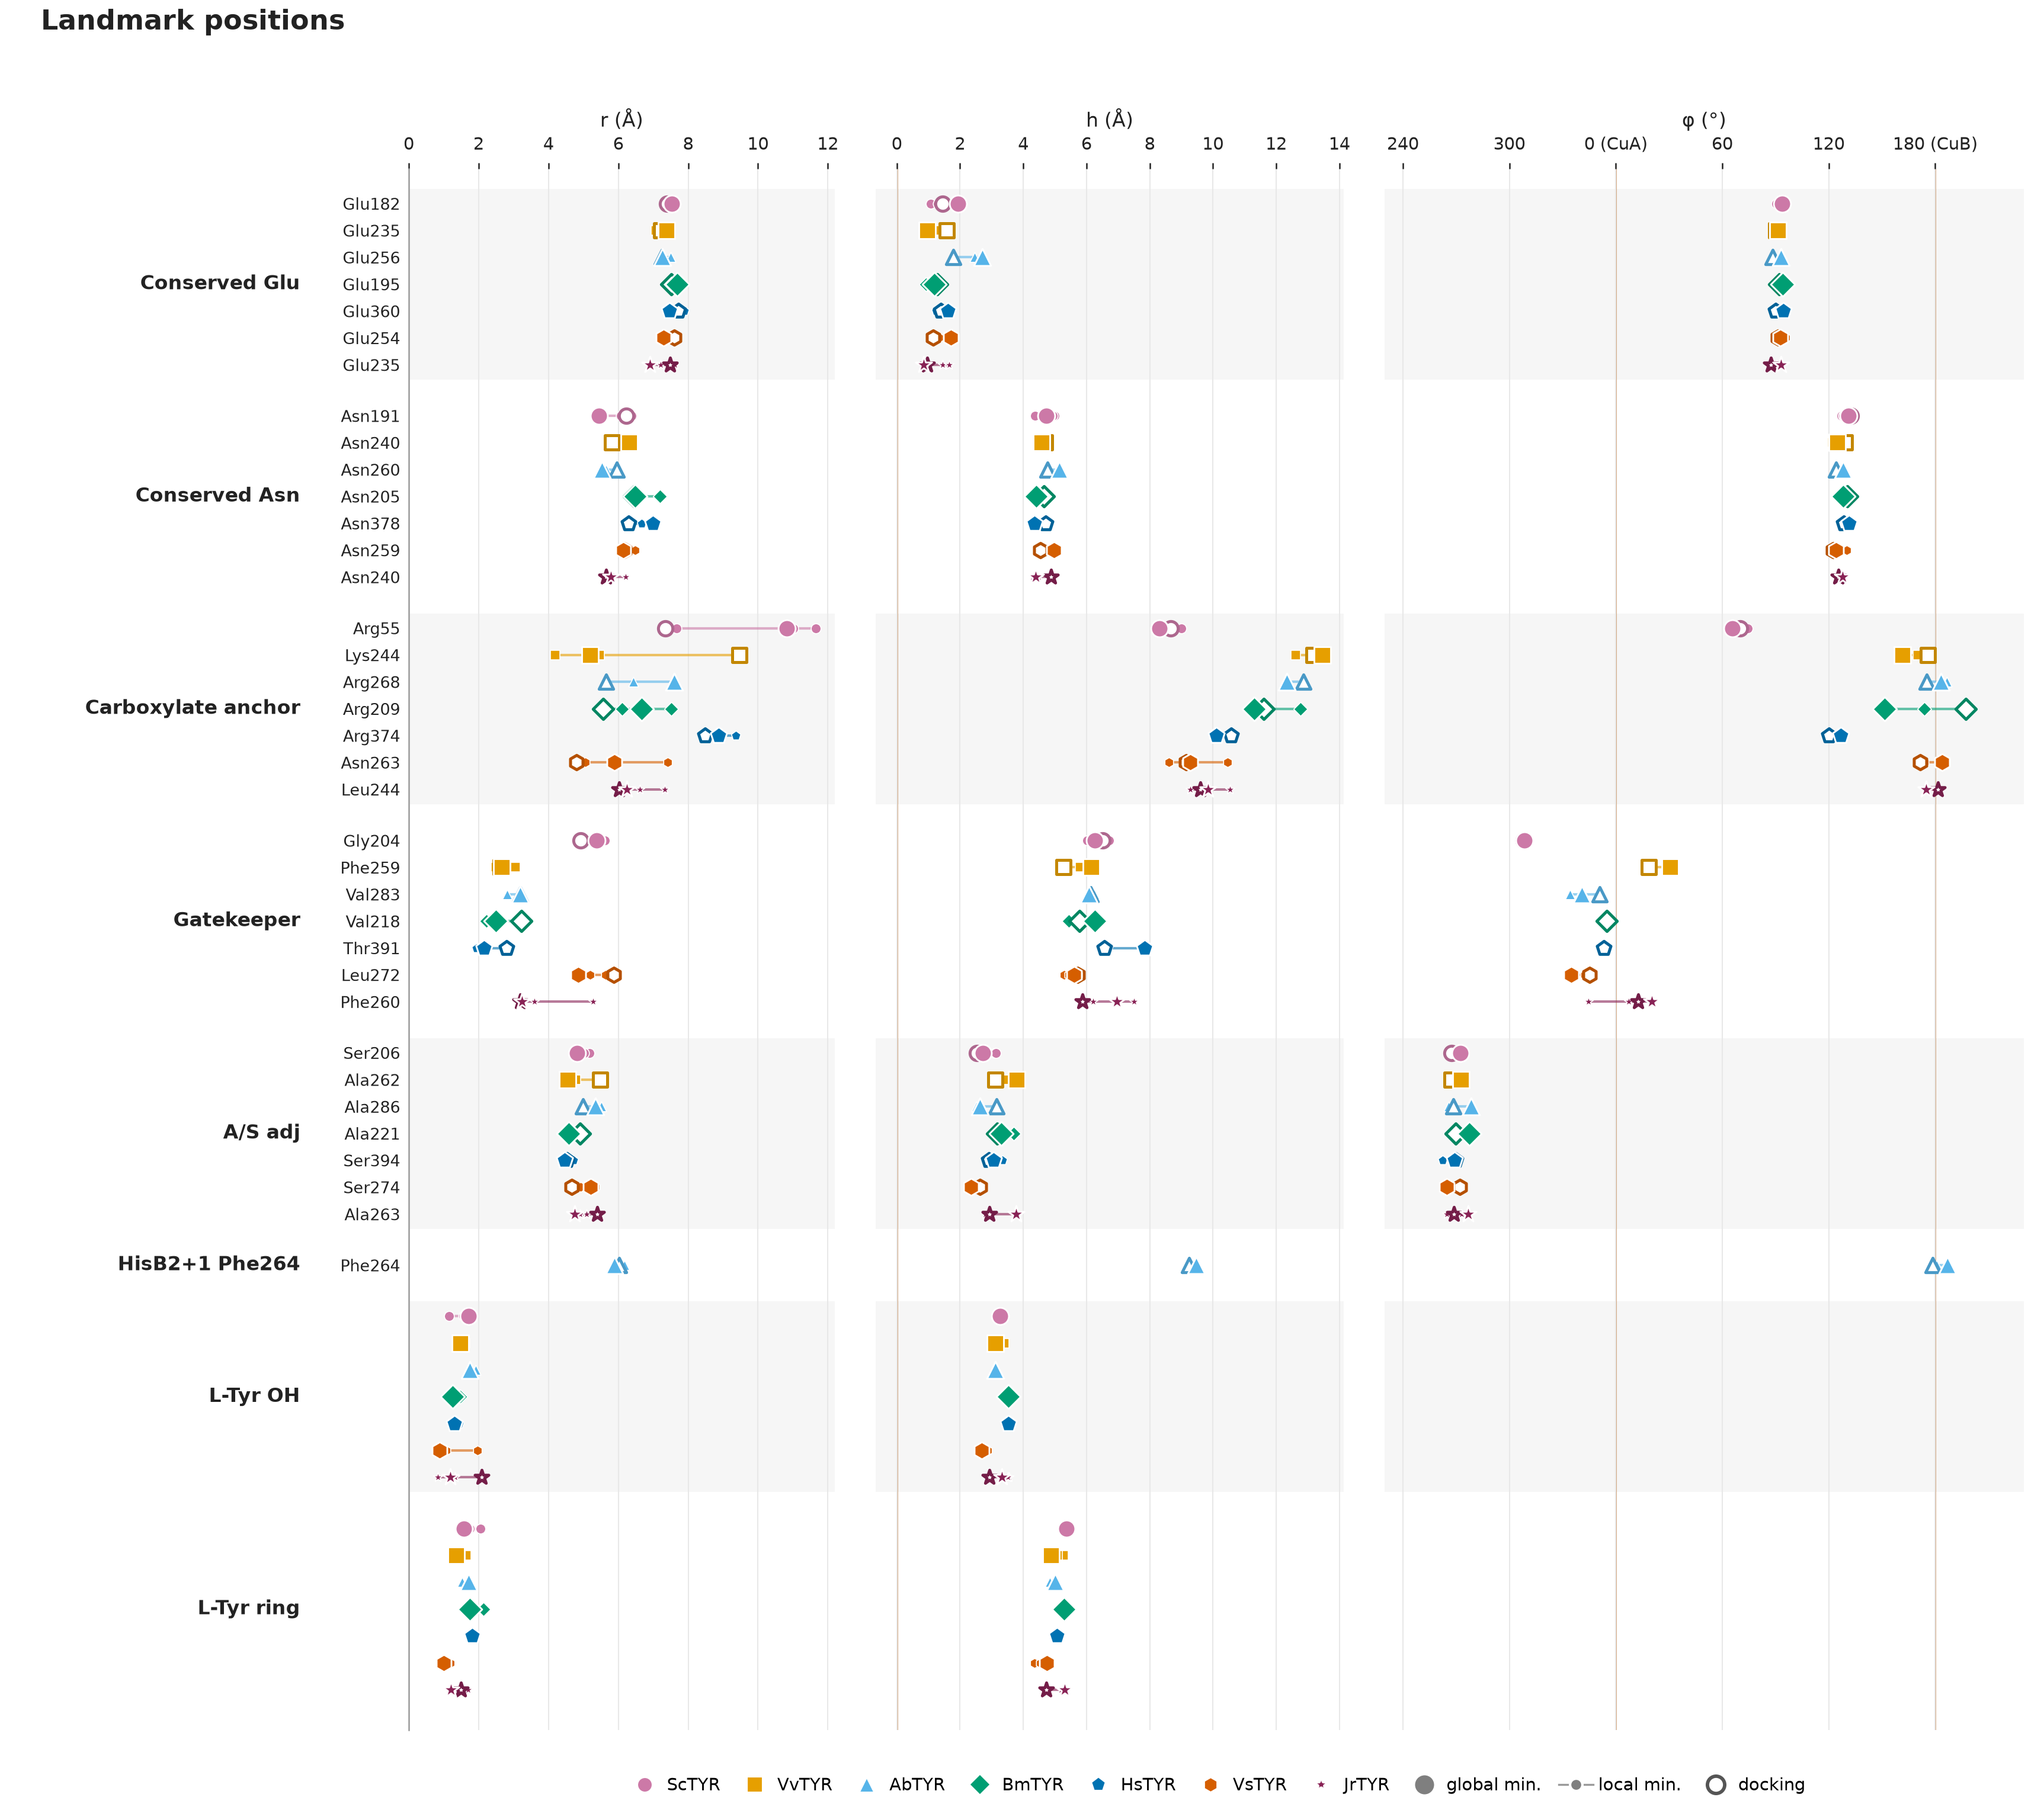
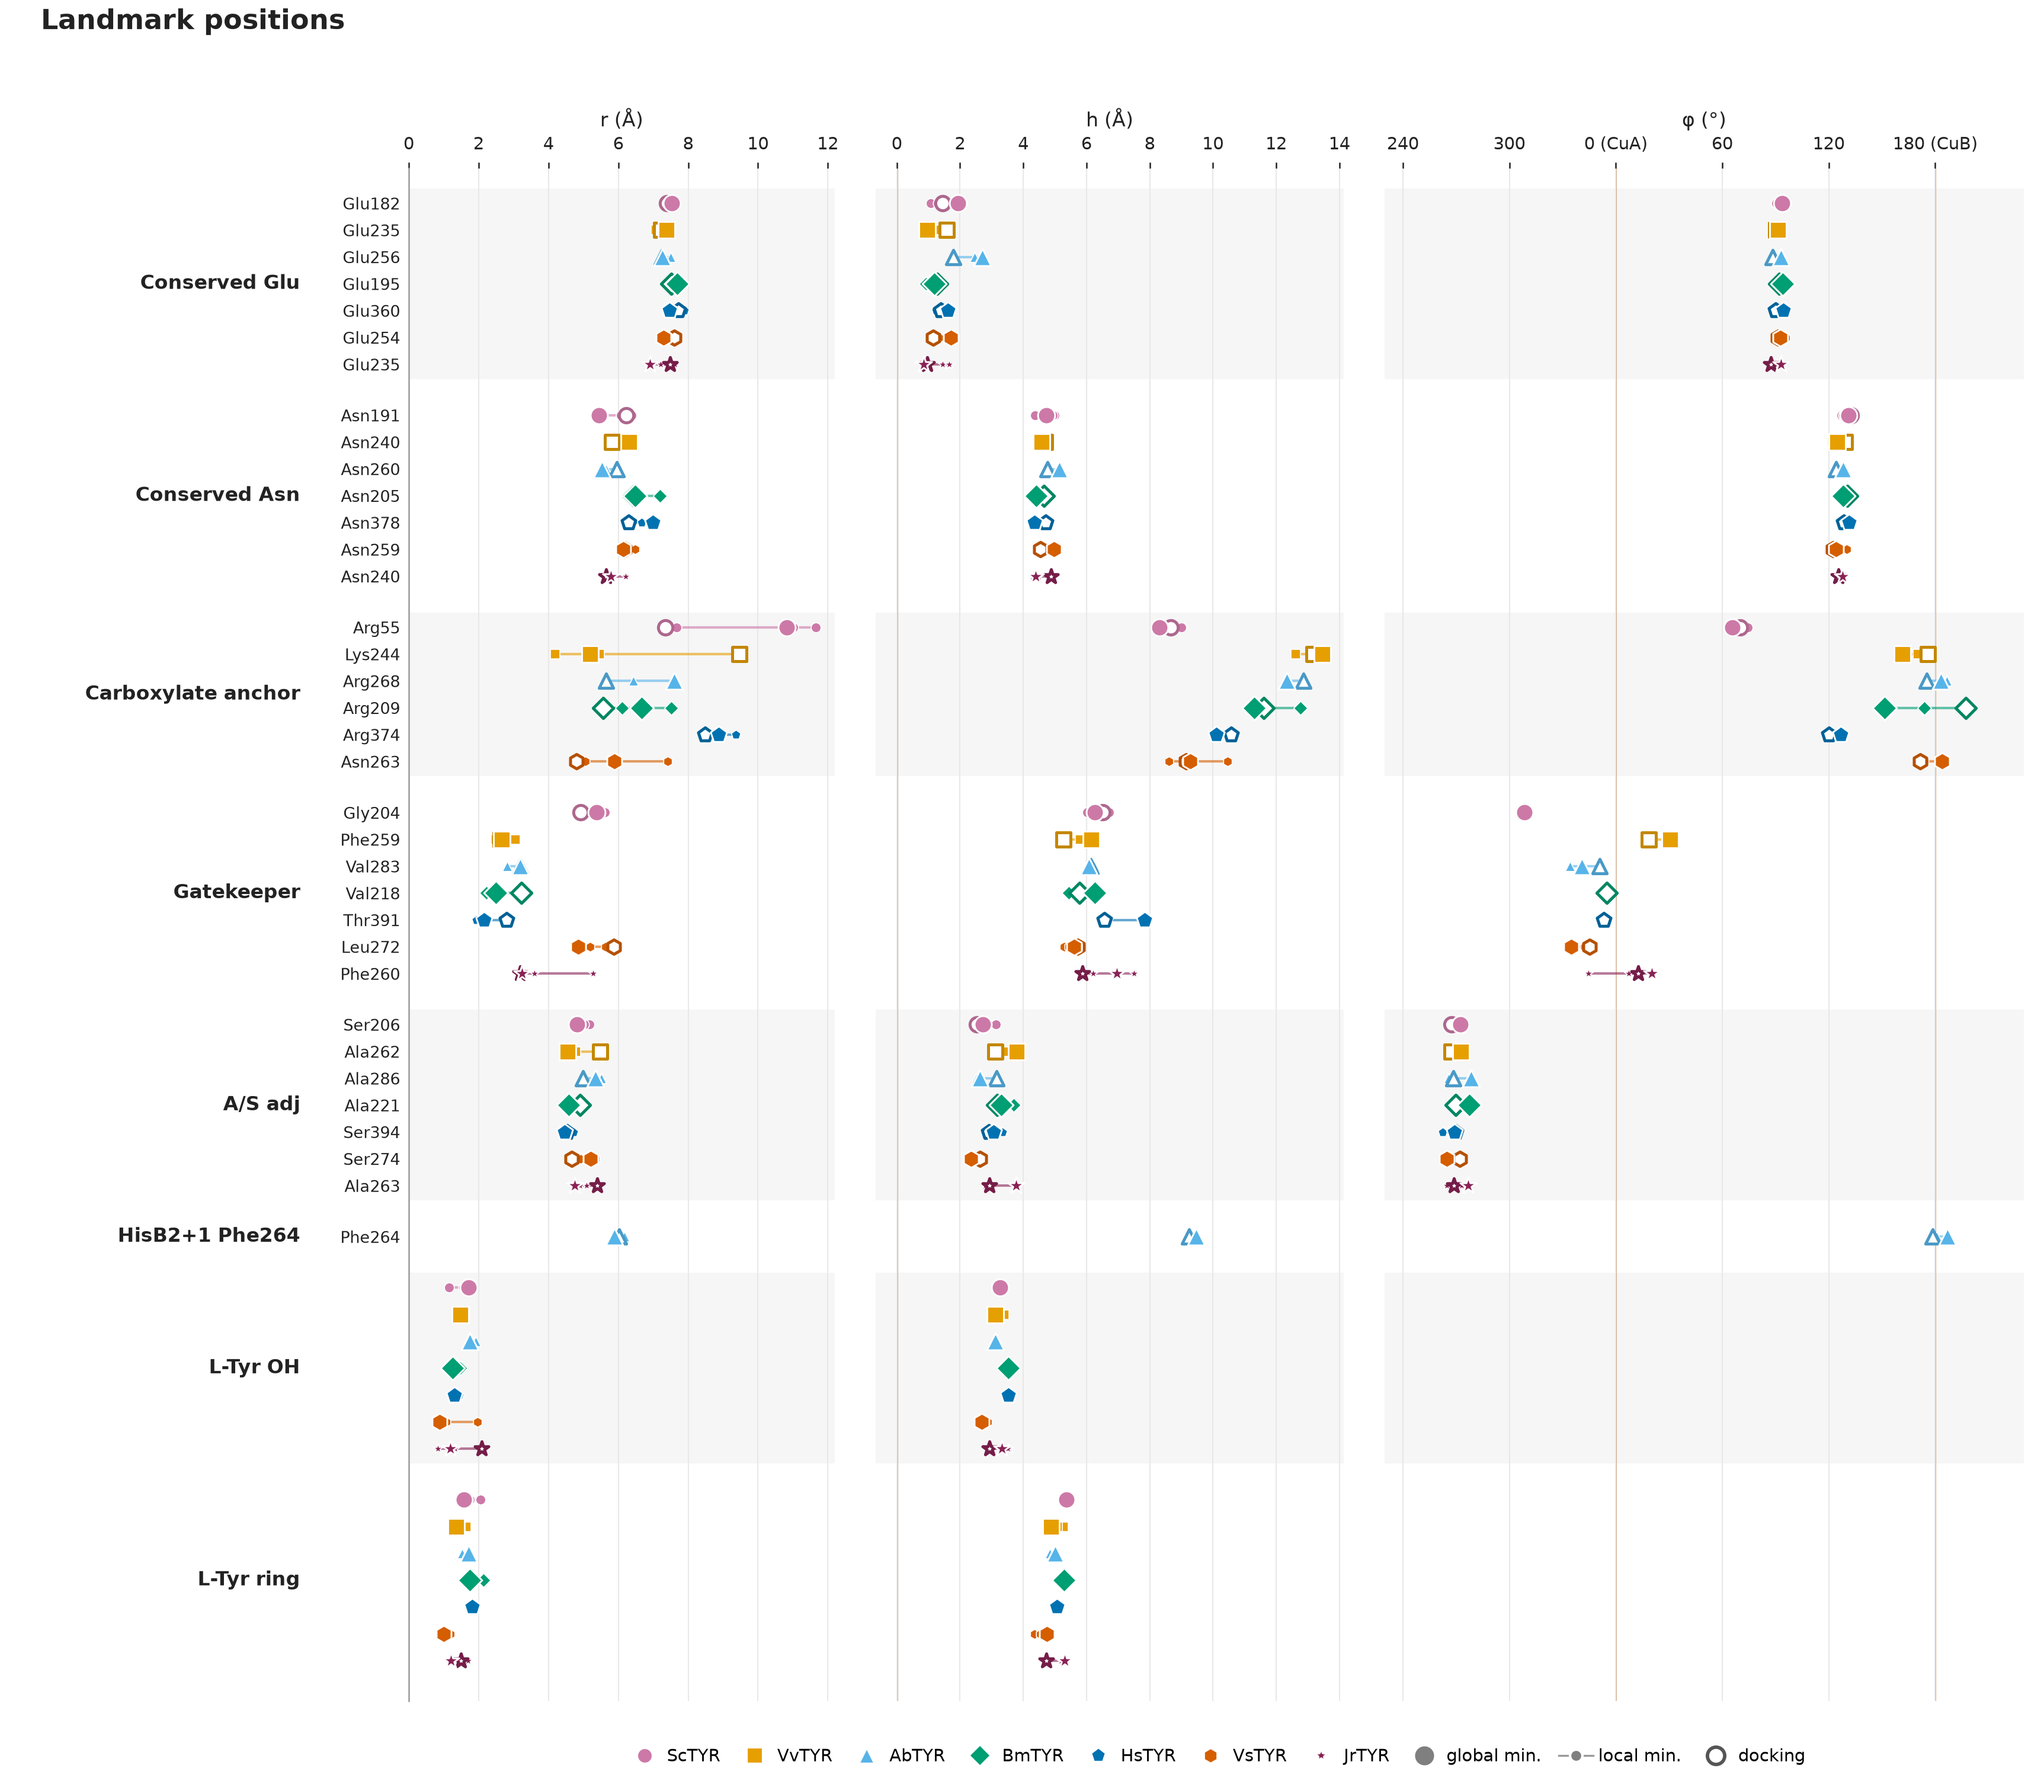
Add files via upload

diff --git a/examples/output_static/SUMMARY.md b/examples/output_static/SUMMARY.md
@@ -18,6 +18,7 @@
 - HsTYR (docking): HisB3: resid 404 appears 2 times [('X', 'HIS'), ('X', 'PER')]; using HIS404
 - HsTYR (docking): no residue named TY1: no L-Tyr descriptors
 - VsTYR (docking): no residue named TY1: no L-Tyr descriptors
+- JrTYR (all states): Carboxylate_anchor: role 'anchor' not defined for JrTYR; skipped
 
 ## Numbering and residues used
 
@@ -44,10 +45,10 @@
 - **VsTYR / local1** (offset +0, HD1-HD6): HisA1=HD180, HisA2=HD286, HisA3=HD395, HisB1=HD4258, HisB2=HD5262, HisB3=HD6284, Glu=GLU254, Asn=ASN259, anchor=ASN263, gatekeeper=LEU272, SerAla=SER274, ligand=TY1405
 - **VsTYR / local2** (offset +0, HD1-HD6): HisA1=HD180, HisA2=HD286, HisA3=HD395, HisB1=HD4258, HisB2=HD5262, HisB3=HD6284, Glu=GLU254, Asn=ASN259, anchor=ASN263, gatekeeper=LEU272, SerAla=SER274, ligand=TY1405
 - **VsTYR / docking** (offset +0, none (resid_offset 0)): HisA1=HIS80, HisA2=HIS86, HisA3=HIS95, HisB1=HIS258, HisB2=HIS262, HisB3=HIS284, Glu=GLU254, Asn=ASN259, anchor=ASN263, gatekeeper=LEU272, SerAla=SER274
-- **JrTYR / global** (offset +0, HD1-HD6): HisA1=HD187, HisA2=HD2108, HisA3=HD3117, HisB1=HD4239, HisB2=HD5243, HisB3=HD6273, Glu=GLU235, Asn=ASN240, anchor=LEU244, gatekeeper=PHE260, SerAla=ALA263, ligand=TY1405
-- **JrTYR / local1** (offset +0, HD1-HD6): HisA1=HD187, HisA2=HD2108, HisA3=HD3117, HisB1=HD4239, HisB2=HD5243, HisB3=HD6273, Glu=GLU235, Asn=ASN240, anchor=LEU244, gatekeeper=PHE260, SerAla=ALA263, ligand=TY1405
-- **JrTYR / local2** (offset +0, HD1-HD6): HisA1=HD187, HisA2=HD2108, HisA3=HD3117, HisB1=HD4239, HisB2=HD5243, HisB3=HD6273, Glu=GLU235, Asn=ASN240, anchor=LEU244, gatekeeper=PHE260, SerAla=ALA263, ligand=TY1405
-- **JrTYR / docking** (offset +0, none (resid_offset 0)): HisA1=HIS87, HisA2=HIS108, HisA3=HIS117, HisB1=HIS239, HisB2=HIS243, HisB3=HIS273, Glu=GLU235, Asn=ASN240, anchor=LEU244, gatekeeper=PHE260, SerAla=ALA263, ligand=TY10
+- **JrTYR / global** (offset +0, HD1-HD6): HisA1=HD187, HisA2=HD2108, HisA3=HD3117, HisB1=HD4239, HisB2=HD5243, HisB3=HD6273, Glu=GLU235, Asn=ASN240, gatekeeper=PHE260, SerAla=ALA263, ligand=TY1405
+- **JrTYR / local1** (offset +0, HD1-HD6): HisA1=HD187, HisA2=HD2108, HisA3=HD3117, HisB1=HD4239, HisB2=HD5243, HisB3=HD6273, Glu=GLU235, Asn=ASN240, gatekeeper=PHE260, SerAla=ALA263, ligand=TY1405
+- **JrTYR / local2** (offset +0, HD1-HD6): HisA1=HD187, HisA2=HD2108, HisA3=HD3117, HisB1=HD4239, HisB2=HD5243, HisB3=HD6273, Glu=GLU235, Asn=ASN240, gatekeeper=PHE260, SerAla=ALA263, ligand=TY1405
+- **JrTYR / docking** (offset +0, none (resid_offset 0)): HisA1=HIS87, HisA2=HIS108, HisA3=HIS117, HisB1=HIS239, HisB2=HIS243, HisB3=HIS273, Glu=GLU235, Asn=ASN240, gatekeeper=PHE260, SerAla=ALA263, ligand=TY10
 
 ## Key values per state
 
@@ -108,7 +109,7 @@ Trajectories: median [p10–p90]. Distances in Å, angles in degrees.
 - VsTYR / local1: Conserved_Glu 1.3/7.5/96°; Conserved_Asn 4.9/6.5/130°; Carboxylate_anchor 8.6/5.1/174°; Gatekeeper 5.3/5.6/346°; A/S_adj 2.6/5.3/272°
 - VsTYR / local2: Conserved_Glu 1.3/7.4/92°; Conserved_Asn 4.8/6.0/124°; Carboxylate_anchor 10.5/7.4/184°; Gatekeeper 5.4/5.2/342°; A/S_adj 2.3/4.9/269°
 - VsTYR / docking: Conserved_Glu 1.2/7.6/91°; Conserved_Asn 4.5/6.2/122°; Carboxylate_anchor 9.1/4.8/171°; Gatekeeper 5.7/5.9/345°; A/S_adj 2.6/4.7/272°
-- JrTYR / global: Conserved_Glu 0.9/6.9/93°; Conserved_Asn 4.4/5.8/128°; Carboxylate_anchor 9.9/6.2/175°; Gatekeeper 7.0/3.2/20°; A/S_adj 3.8/4.7/277°
-- JrTYR / local1: Conserved_Glu 1.5/7.6/94°; Conserved_Asn 4.3/6.2/129°; Carboxylate_anchor 9.3/6.6/174°; Gatekeeper 7.5/5.3/345°; A/S_adj 3.7/5.1/265°
-- JrTYR / local2: Conserved_Glu 1.7/7.2/91°; Conserved_Asn 4.5/5.8/127°; Carboxylate_anchor 10.5/7.3/182°; Gatekeeper 6.2/3.6/7°; A/S_adj 2.8/4.9/273°
-- JrTYR / docking: Conserved_Glu 1.0/7.5/87°; Conserved_Asn 4.9/5.6/125°; Carboxylate_anchor 9.6/6.0/181°; Gatekeeper 5.9/3.2/13°; A/S_adj 2.9/5.4/269°
+- JrTYR / global: Conserved_Glu 0.9/6.9/93°; Conserved_Asn 4.4/5.8/128°; Gatekeeper 7.0/3.2/20°; A/S_adj 3.8/4.7/277°
+- JrTYR / local1: Conserved_Glu 1.5/7.6/94°; Conserved_Asn 4.3/6.2/129°; Gatekeeper 7.5/5.3/345°; A/S_adj 3.7/5.1/265°
+- JrTYR / local2: Conserved_Glu 1.7/7.2/91°; Conserved_Asn 4.5/5.8/127°; Gatekeeper 6.2/3.6/7°; A/S_adj 2.8/4.9/273°
+- JrTYR / docking: Conserved_Glu 1.0/7.5/87°; Conserved_Asn 4.9/5.6/125°; Gatekeeper 5.9/3.2/13°; A/S_adj 2.9/5.4/269°
